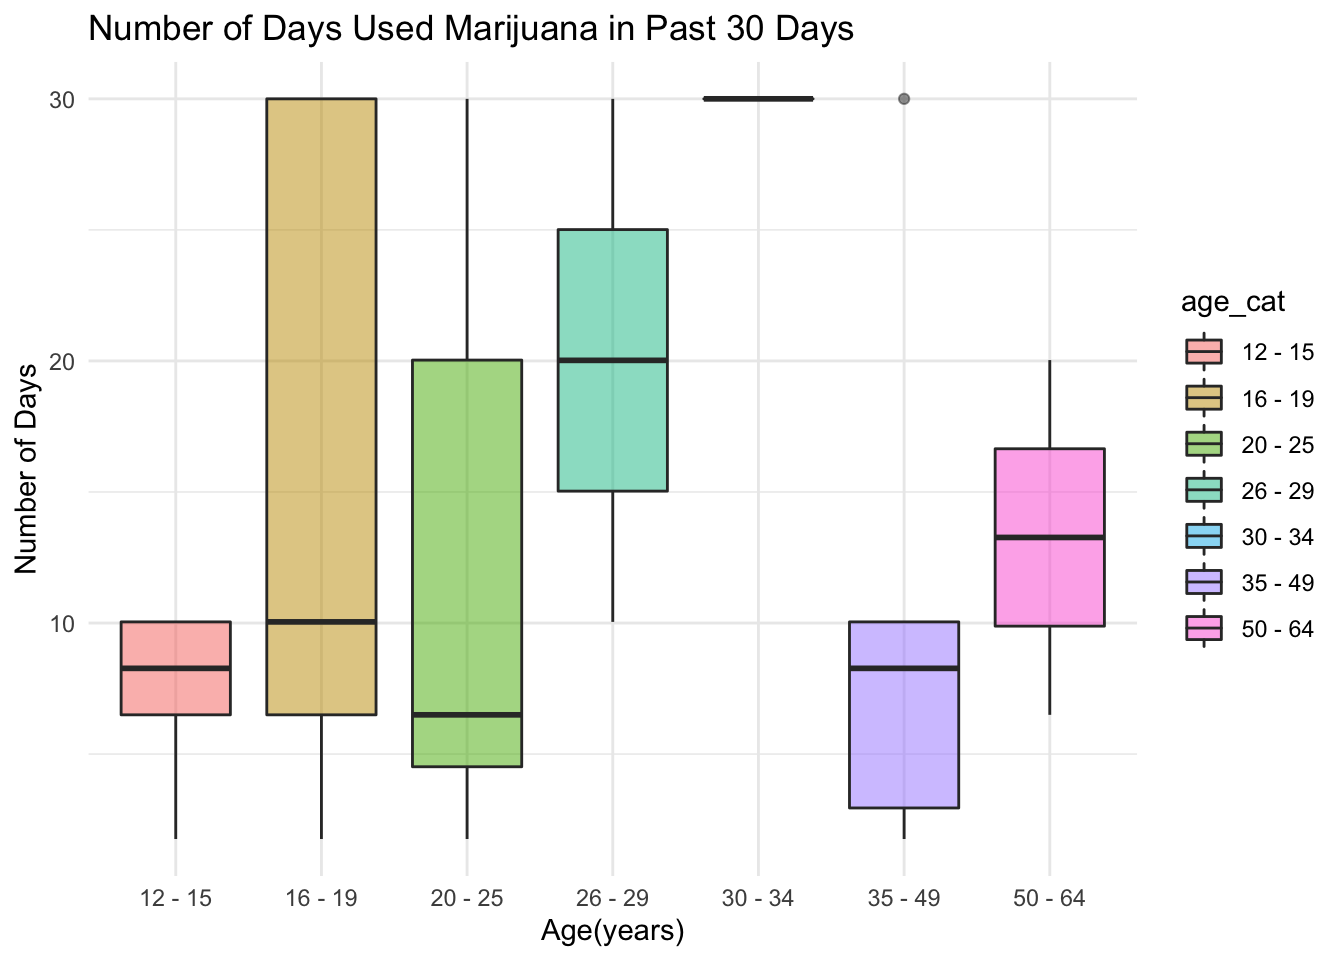
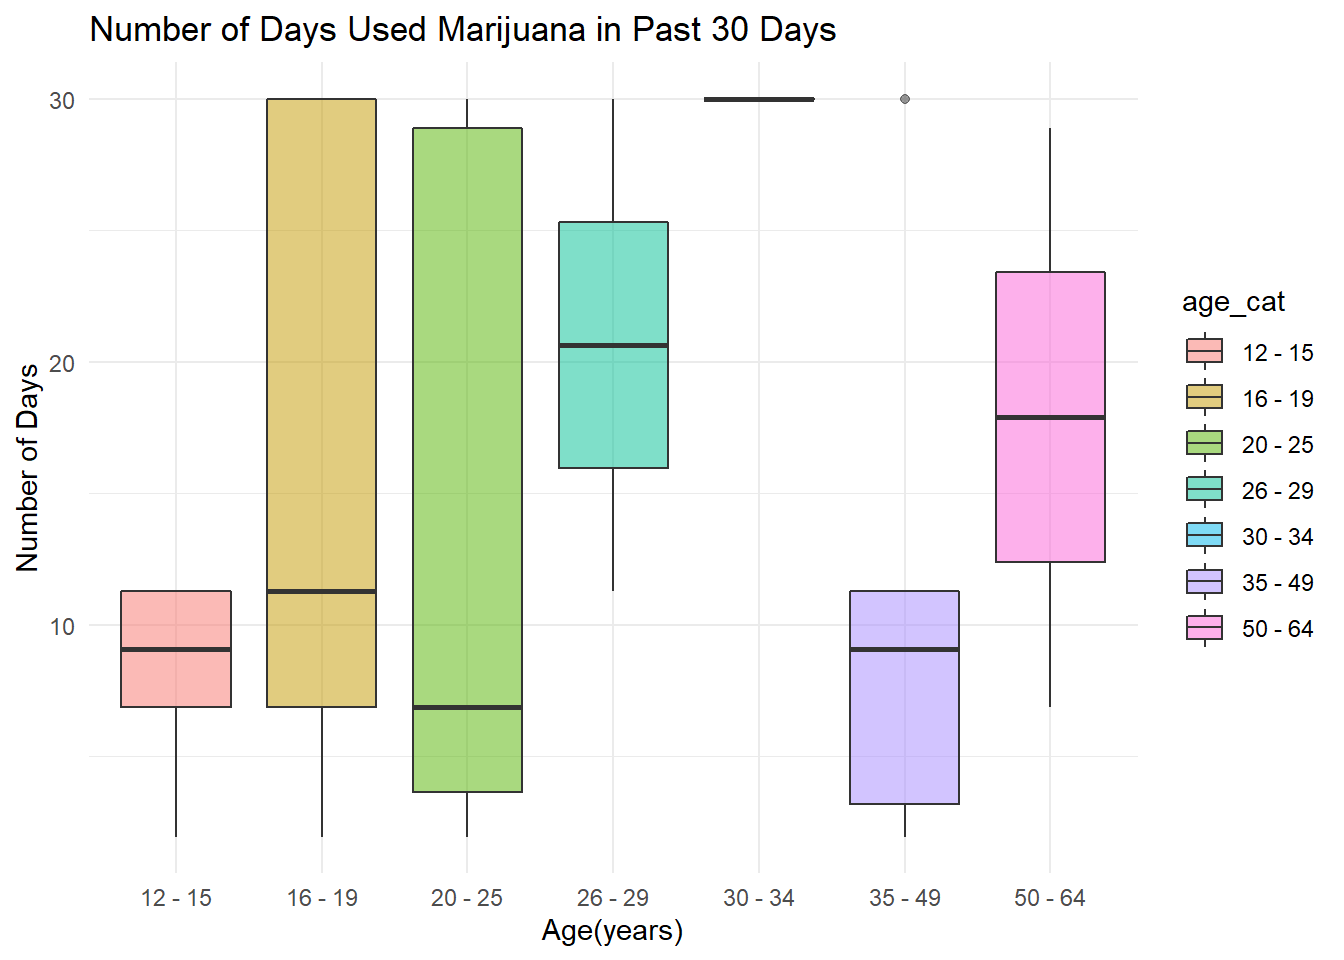
half way of statistical

diff --git a/Descriptive_Info.html b/Descriptive_Info.html
@@ -396,19 +396,19 @@ the survey in different age groups.</p>
 <tbody>
 <tr class="odd">
 <td align="left">12 - 15</td>
-<td align="right">75.984</td>
+<td align="right">82.687</td>
 </tr>
 <tr class="even">
 <td align="left">16 - 19</td>
-<td align="right">435.233</td>
+<td align="right">474.634</td>
 </tr>
 <tr class="odd">
 <td align="left">20 - 25</td>
-<td align="right">259.535</td>
+<td align="right">271.981</td>
 </tr>
 <tr class="even">
 <td align="left">26 - 29</td>
-<td align="right">40.043</td>
+<td align="right">41.295</td>
 </tr>
 <tr class="odd">
 <td align="left">30 - 34</td>
@@ -416,11 +416,11 @@ the survey in different age groups.</p>
 </tr>
 <tr class="even">
 <td align="left">35 - 49</td>
-<td align="right">60.102</td>
+<td align="right">63.370</td>
 </tr>
 <tr class="odd">
 <td align="left">50 - 64</td>
-<td align="right">26.530</td>
+<td align="right">35.773</td>
 </tr>
 <tr class="even">
 <td align="left">older_than_65</td>

diff --git a/Statistical_Analysis.html b/Statistical_Analysis.html
@@ -419,7 +419,7 @@ for age, sex, race, education, region, income, and martial status.</p>
 </div>
 <div id="hypothesis-testing" class="section level1">
 <h1>Hypothesis testing</h1>
-<p>Is the beta for our exposure variable truely different from
+<p>Is the beta for our exposure variable truly different from
 zero?<br />
 We obtained the p.value from the t.test statistics.</p>
 <pre class="r"><code>reg %&gt;% 
@@ -448,9 +448,6 @@ We obtained the p.value from the t.test statistics.</p>
 <code>mrjmon1</code> which is marijuana past month use comparing Yes to
 No is very large and the resulting p.value is close to zero. Our beta
 coefficient of the exposure variable is significant.</p>
-<p>Can we use covairates to predict drp? Maybe do a Cross-Validation</p>
-<p>hypothesise test?</p>
-<p>Region (coutyp4) distribution of cannabis smoking and drp</p>
 </div>
 
 
